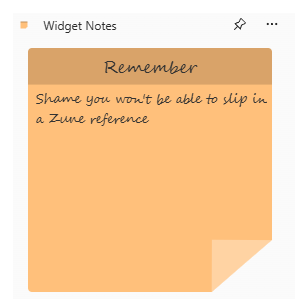
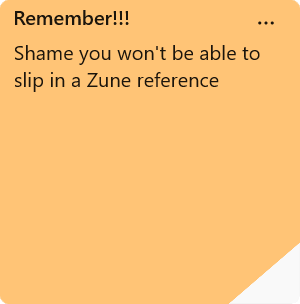
Update Demo with Latest NuGet Packages, Widget for WinUI-based Widgets Board and Slides

diff --git a/Demo/DotNetNotes/DotNetNotes/Assets/NoteAsset.cs b/Demo/DotNetNotes/DotNetNotes/Assets/NoteAsset.cs
@@ -33,6 +33,30 @@ public class NoteAsset : AssetBase<NoteAsset>
     }
 
     /// <summary>
+    /// Get Asset Primary String
+    /// </summary>
+    /// <param name="svg">XML Document</param>
+    /// <param name="fill">Fill Colour</param>
+    /// <param name="manager">XML Namespace Manager</param>
+    /// <returns>XML Document</returns>
+    private static XmlDocument? GetAssetPrimaryString(XmlDocument? svg, Color fill, XmlNamespaceManager? manager)
+    {
+        var node = svg.GetAssetAttribute(asset_svg_primary, asset_svg_fill, manager);
+        if (node?.Value != null)
+        {
+            node.Value = AsString(node.Value, source, fill);
+            var root = svg?.DocumentElement;
+            while (root?.ChildNodes.Count > 1)
+            {
+                var child = root.ChildNodes[1];
+                if(child != null)
+                    root.RemoveChild(child);
+            }
+        }
+        return svg;
+    }
+
+    /// <summary>
     /// Set Asset Text
     /// </summary>
     /// <param name="svg">XML Document</param>
@@ -92,6 +116,29 @@ public class NoteAsset : AssetBase<NoteAsset>
     /// <returns>Data Uri</returns>
     public static string? GetAsDataUri(Color? target = null, string? title = null, string? content = null) => 
         Get(target, title, content).GetAsDataUri();
+
+    /// <summary>
+    /// Get Primary Asset Resource
+    /// </summary>
+    /// <param name="target">Colour</param>
+    /// <returns>Asset Resource</returns>
+    public static AssetResource GetPrimary(Color? target = null) =>
+        new(FromString(
+            GetAssetPrimaryString(
+                AsString(root, asset)
+                    .GetSvgDocument(out var manager), 
+                        target ?? source, manager)?.OuterXml ?? string.Empty) ?? 
+                            new MemoryStream(), size, size);
+
+    /// <summary>
+    /// Get Primary As Data Uri
+    /// </summary>
+    /// <param name="target">Colour</param>
+    /// <param name="title">Title</param>
+    /// <param name="content">Content</param>
+    /// <returns>Data Uri</returns>
+    public static string? GetPrimaryAsDataUri(Color? target = null) =>
+        GetPrimary(target).GetAsDataUri();
 
     /// <summary>
     /// Get Asset Primary Path Markup

diff --git a/Demo/DotNetNotes/WinAppSdkNotes/Widget/WidgetService.cs b/Demo/DotNetNotes/WinAppSdkNotes/Widget/WidgetService.cs
@@ -19,7 +19,7 @@ public class WidgetService(FileProvider file, IApplicationProvider application)
     /// <param name="model">Note Model</param>
     /// <returns>Note Image</returns>
     private static string GetImage(NoteModel model) =>
-        model.AssetDataUri ?? string.Empty;
+        model.AssetPrimaryDataUri ?? string.Empty;
 
     /// <summary>
     /// Note Does Not Exist
@@ -43,7 +43,8 @@ public class WidgetService(FileProvider file, IApplicationProvider application)
         _widget.Notes = [.. notes.Skip((_widget.Page - 1) * page_size).Take(page_size)];
         _widget.TotalPages = (int)Math.Ceiling((double)_widget.Total / page_size);
         _widget.Note = NoteDoesNotExist(note?.Id, notes) ? notes.FirstOrDefault() : note;
-        _widget.Image = NoteDoesNotExist(_widget.ImageId, notes) ? null : _widget.Image;
+        _widget.Selected = NoteDoesNotExist(_widget.Selected?.Id, notes) ? null : _widget.Selected;
+        _widget.Image = NoteDoesNotExist(_widget.Selected?.Id, notes) ? null : _widget.Image;
         _widget.Note = note;
         file?.Save(data, _widget);
     }
@@ -84,14 +85,14 @@ public class WidgetService(FileProvider file, IApplicationProvider application)
     }
 
     /// <summary>
-    /// Set Image
+    /// Set Selected
     /// </summary>
     /// <param name="model">Note Model</param>
-    private void SetImage(NoteModel? model)
+    private void SetSelected(NoteModel? model)
     {
         if (model != null)
         {
-            _widget.ImageId = model.Id; 
+            _widget.Selected = model;
             _widget.Image = GetImage(model);
         }
     }
@@ -105,7 +106,7 @@ public class WidgetService(FileProvider file, IApplicationProvider application)
         var result = application.NewAsync(model, true).Result;
         if (result)
         {
-            SetImage(application.Content.Note);
+            SetSelected(application.Content.Note);
             Populate();
         }
     }
@@ -119,7 +120,7 @@ public class WidgetService(FileProvider file, IApplicationProvider application)
         var result = application.EditAsync(model, true).Result;
         if (result)
         {
-            SetImage(application.Content.Note);
+            SetSelected(application.Content.Note);
             Populate();
         }
     }
@@ -167,7 +168,7 @@ public class WidgetService(FileProvider file, IApplicationProvider application)
     /// <param name="data">Note Id Data</param>
     public void Select(string data)
     {
-        SetImage(application.GetAsync(GetNoteId(data)).Result);
+        SetSelected(application.GetAsync(GetNoteId(data)).Result);
         Populate();
     }
 
@@ -233,8 +234,8 @@ public class WidgetService(FileProvider file, IApplicationProvider application)
     }
 
     /// <summary>
-    /// Is Image Empty
+    /// Is Selected Empty
     /// </summary>
-    /// <returns>True if Image is Empty, False if not</returns>
-    public bool IsImageEmpty => _widget.IsImageEmpty;
+    /// <returns>True if Selected is Empty, False if not</returns>
+    public bool IsSelectedEmpty => _widget?.Note?.Id == null;
 }

diff --git a/Demo/DotNetNotes/WinAppSdkNotes/Widget/WidgetModel.cs b/Demo/DotNetNotes/WinAppSdkNotes/Widget/WidgetModel.cs
@@ -6,14 +6,14 @@
 public class WidgetModel
 {
     /// <summary>
-    /// Image Id
-    /// </summary>
-    public int? ImageId { get; set; }
-
-    /// <summary>
     /// Image
     /// </summary>
     public string? Image { get; set; }
+
+    /// <summary>
+    /// Selected
+    /// </summary>
+    public NoteModel? Selected { get; set; }
 
     /// <summary>
     /// Show Prev?
@@ -49,10 +49,4 @@ public class WidgetModel
     /// Notes
     /// </summary>
     public List<NoteModel>? Notes { get; set; }
-
-    /// <summary>
-    /// Is Image Empty?
-    /// </summary>
-    public bool IsImageEmpty => 
-        string.IsNullOrWhiteSpace(Image);
 }

diff --git a/Demo/DotNetNotes/DotNetNotes/Models/NoteModelExtensions.cs b/Demo/DotNetNotes/DotNetNotes/Models/NoteModelExtensions.cs
@@ -36,5 +36,11 @@ public static class NoteModelExtensions
         /// </summary>
         public string? AssetDataUri => 
             NoteAsset.GetAsDataUri(FromHtml(note.Background), note.Title, note.Content);
+
+        /// <summary>
+        /// Asset Primary Data URI
+        /// </summary>
+        public string? AssetPrimaryDataUri =>
+            NoteAsset.GetPrimaryAsDataUri(FromHtml(note.Background));
     }
 }

diff --git a/Demo/DotNetNotes/WinAppSdkNotes/Widget/WidgetNotes.cs b/Demo/DotNetNotes/WinAppSdkNotes/Widget/WidgetNotes.cs
@@ -50,14 +50,14 @@ public class WidgetNotes(WidgetService provider, string widgetId, string initial
     /// </summary>
     /// <returns>Widget Tenmplate</returns>
     private WidgetTemplate GetTemplate() =>
-        provider.IsImageEmpty == true ? WidgetTemplate.Configure : WidgetTemplate.Note;
+        provider.IsSelectedEmpty == true ? WidgetTemplate.Configure : WidgetTemplate.Note;
 
     /// <summary>
     /// Get Template Data
     /// </summary>
     /// <returns>Template Data</returns>
     private string GetTemplateData() => 
-        provider.IsImageEmpty == true ? configure_template : note_template;
+        provider.IsSelectedEmpty == true ? configure_template : note_template;
 
     /// <summary>
     /// Definition Id